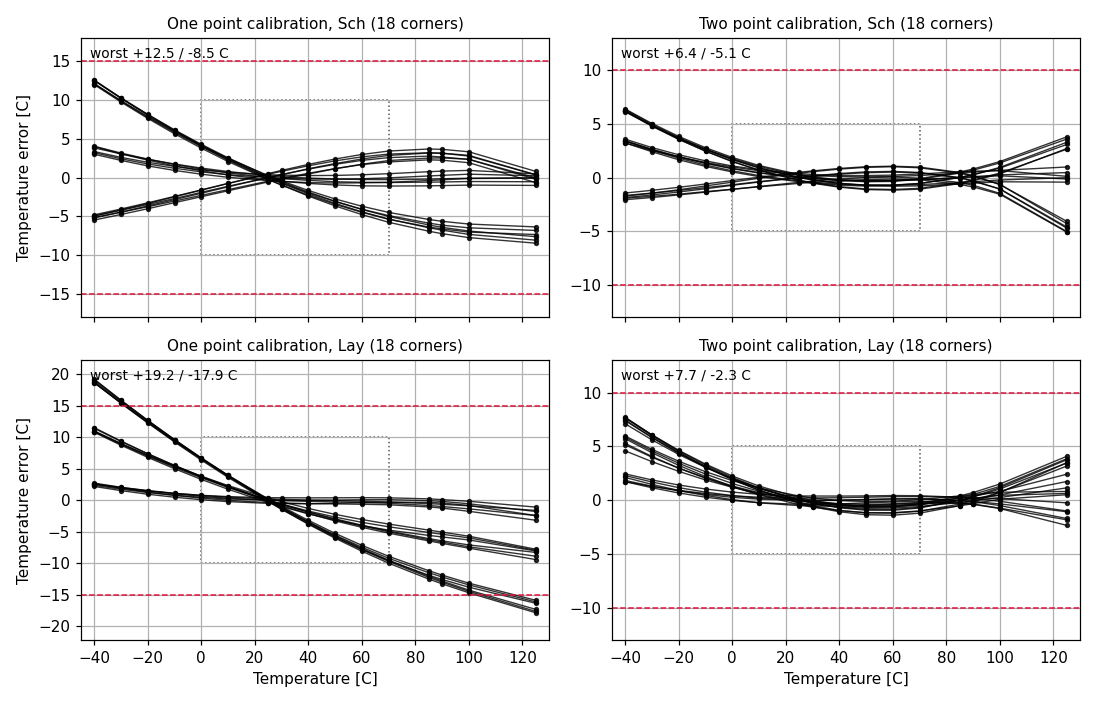
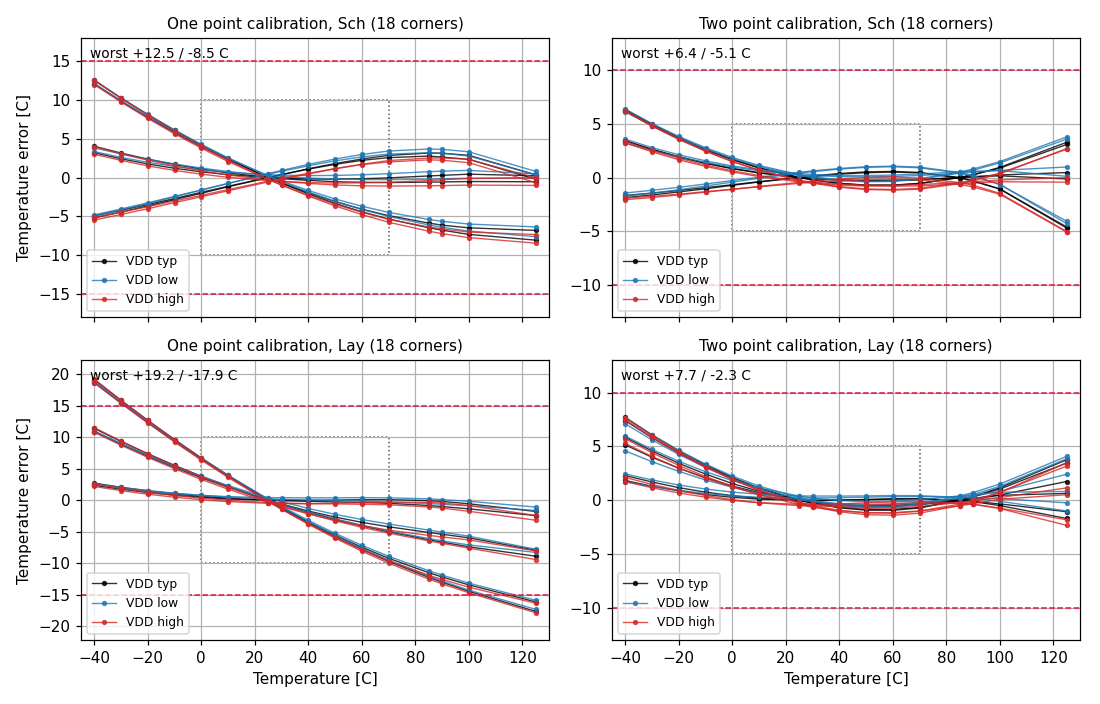
plot: color etc corners by supply, typ black, high red, low blue
Claude-Session: https://claude.ai/code/session_01V2NXKz4pJqzwkkQt9GQ19N

diff --git a/sim/LELO_TEMP/plot_results.py b/sim/LELO_TEMP/plot_results.py
@@ -83,8 +83,9 @@ def process(name):
     with open(yamlfile, "w") as fo:
         yaml.dump(obj, fo)
 
+    m = re.search(r"(V[thl])(?:_\d+)?$", name)
     return {"temp": TEMPS.astype(float), "freq": freq,
-            "1p": err1, "2p": err2}
+            "1p": err1, "2p": err2, "supply": m.group(1) if m else "Vt"}
 
 
 def runs_of(runfile):
@@ -92,11 +93,21 @@ def runs_of(runfile):
         return [process(l.strip()) for l in fi if l.strip()]
 
 
+SUPPLY_COLOR = {"Vt": "black", "Vh": "tab:red", "Vl": "tab:blue"}
+SUPPLY_LABEL = {"Vt": "VDD typ", "Vh": "VDD high", "Vl": "VDD low"}
+
+
 def error_panel(ax, runs, cal):
     ind, com = SPEC[cal]["ind"], SPEC[cal]["com"]
+    seen = set()
     for r in runs:
-        ax.plot(r["temp"], r[cal], color="black", lw=0.9,
-                marker="o", ms=2.5, alpha=0.8)
+        sup = r["supply"]
+        ax.plot(r["temp"], r[cal], color=SUPPLY_COLOR[sup], lw=0.9,
+                marker="o", ms=2.5, alpha=0.8,
+                label=None if sup in seen else SUPPLY_LABEL[sup])
+        seen.add(sup)
+    if len(seen) > 1:
+        ax.legend(fontsize=8, loc="lower left")
     ax.axhline(+ind, color="crimson", ls="--", lw=1)
     ax.axhline(-ind, color="crimson", ls="--", lw=1)
     ax.add_patch(Rectangle((0, -com), 70, 2 * com, fill=False,
